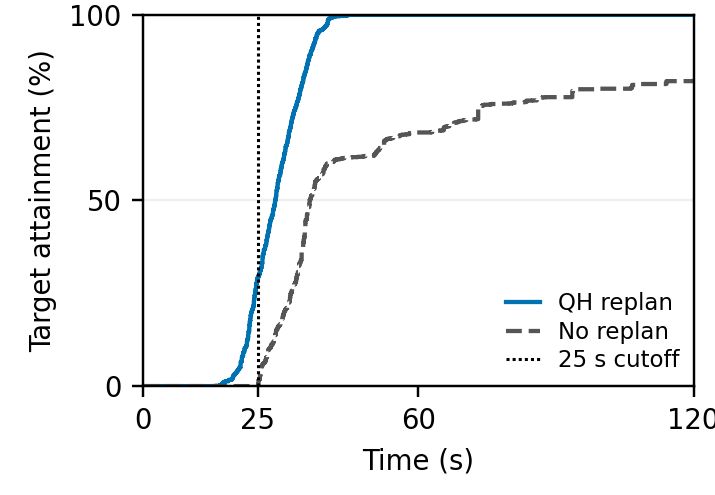
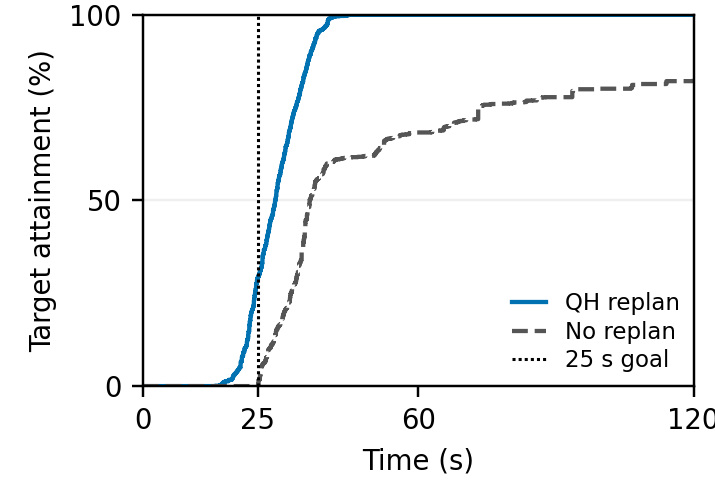
Rename repair deadline marker as goal

Changed region(s): [[0.7077, 0.5758, 0.9538, 0.7576]]

diff --git a/agent-migrate/queue-haul/tests/test_plot_repair_attainment.py b/agent-migrate/queue-haul/tests/test_plot_repair_attainment.py
@@ -114,6 +114,8 @@ def test_response_plots_are_separate_and_use_requested_labels(monkeypatch):
                for figure in figures)
     assert saved == [Path("repair_response.png"), Path("repair_response.pdf"),
                      Path("repair_actions.png"), Path("repair_actions.pdf")]
+    assert "25 s goal" in [text.get_text() for text in
+                           figures[0].axes[0].get_legend().get_texts()]
     assert [tick.get_text() for tick in figures[1].axes[0].get_yticklabels()] == [
         "Bandwidth", "Prefill", "Both"]
     assert figures[1].axes[0].get_xlabel() == "Actions (%)"

diff --git a/agent-migrate/queue-haul/plot_repair_attainment.py b/agent-migrate/queue-haul/plot_repair_attainment.py
@@ -245,7 +245,7 @@ def plot_response(curve: list[dict], transitions: list[dict], cutoff_s: float,
     cdf_axis.axvline(
         cutoff_s, color=plot_style.EVENT_COLORS["shed_target"],
         linestyle=plot_style.EVENT_LINESTYLES["repair_decision"],
-        linewidth=1, label="25 s cutoff")
+        linewidth=1, label="25 s goal")
     cdf_axis.set(xlim=(0, horizon_s), ylim=(0, 100),
                  xticks=(0, 25, 60, 120), yticks=(0, 50, 100),
                  xlabel="Time (s)", ylabel="Target attainment (%)")
